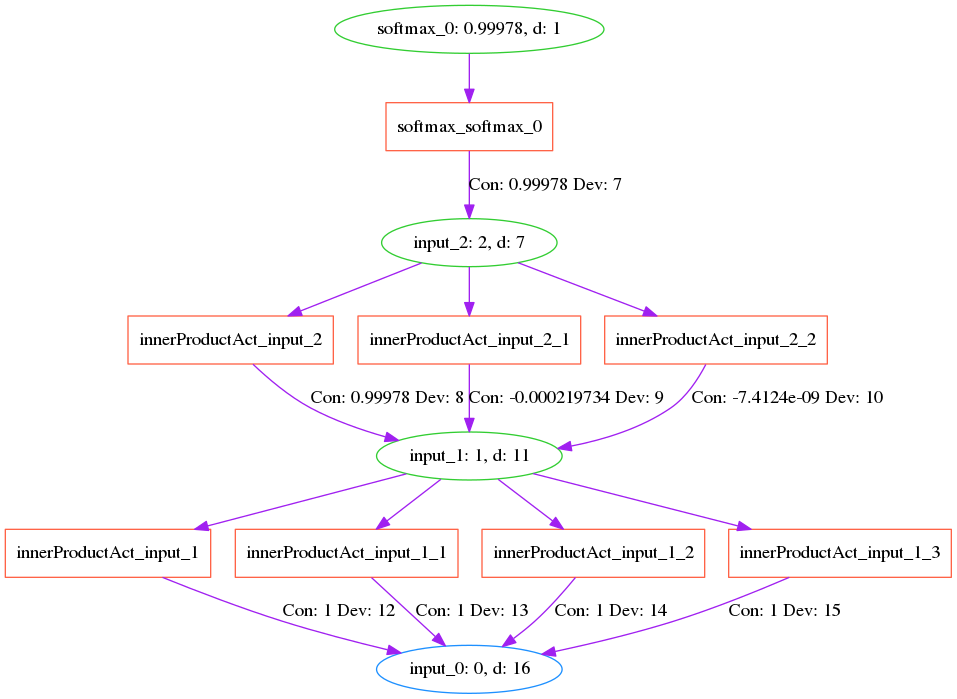
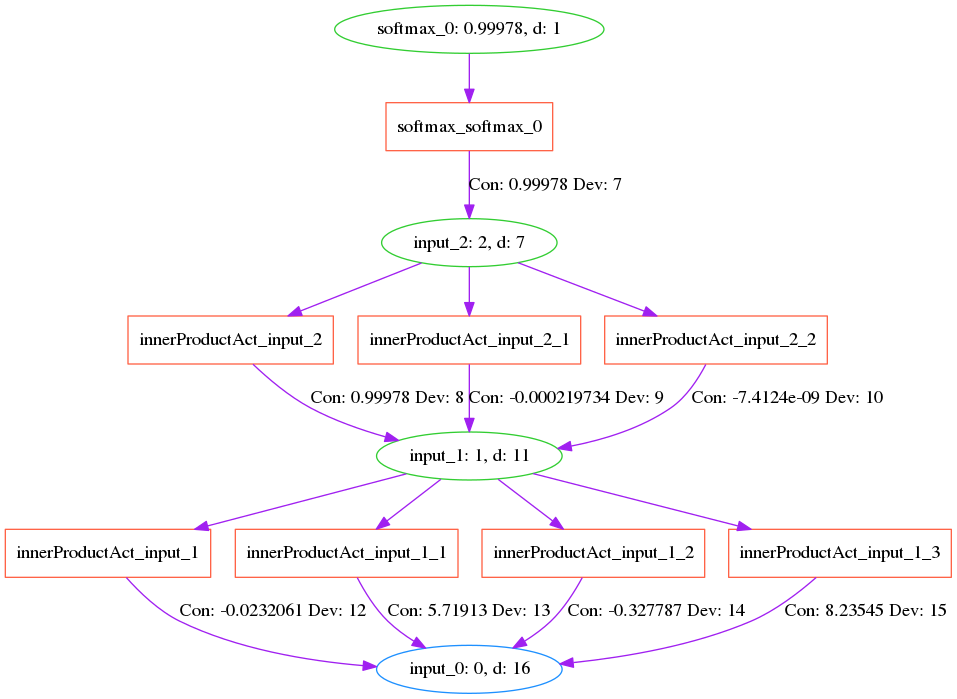
figures

Changed region(s): [[0.1818, 0.8412, 0.9697, 0.9614]]

diff --git a/drawMLP.py b/drawMLP.py
@@ -11,11 +11,12 @@ def drawMaintenanceQuery():
   gs = gridspec.GridSpec(1, 2, width_ratios=[4.4, 3.6])
   # ax1 = fig.add_subplot(1, 2, 1)
   ax1 = plt.subplot(gs[0])
-  xList = ["1", "2", "3", "4", "5", "6", "7", "8", "9", "10"]
-  origin = [0.063348, 0.142561, 0.209507, 0.273852, 0.348826, 0.419871, 0.484845, 0.553744, 0.621982, 0.690081 ]
-  maintenance_fine = [0.424083, 0.887966, 1.31785, 1.81795, 2.24077, 2.64885, 3.07401, 3.68914, 4.05341, 4.39845 ]
-  query_fine = [0.0011376, 0.0014631, 0.00197892, 0.00302829, 0.00391794, 0.00522415, 0.00588835, 0.00659315, 0.00801068, 0.00910626,]
-  query_fine = np.array(query_fine)*1000
+  # xList = ["1", "2", "3", "4", "5", "6", "7", "8", "9", "10"]
+  xList = ["1", "2", "3", "4", "5"]
+  origin = [0.000687, 0.0101, 0.018671, 0.028236, 0.038523]
+  maintenance_fine = [0.006961, 0.054,  0.101907, 0.152218, 0.197581]
+  query_fine = [0.006967, 0.04, 0.08362,  0.124492, 0.165602]
+  # query_fine = np.array(query_fine)*1000
   # maintenance_coarse = [0.206752, 0.476931, 0.766481, 0.98802, 1.23495, 1.54035, 1.76545, 1.99586, 2.22024, 2.41902]
   # query_coarse = [0.000264171, 0.000294356, 0.000330009, 0.000365438, 0.0003871, 0.000420653, 0.000438427, 0.000464096, 0.000474362, 0.000492065]
   # query_coarse = np.array(query_coarse)*1000
@@ -41,7 +42,7 @@ def drawMaintenanceQuery():
   ax1.set_xticklabels(xList, fontsize=fs2)
   ax1.tick_params(axis="y", which="both", labelsize=fs2)
   ax1.tick_params(axis="y", which="both", labelsize=fs2)
-  ax2.set_ylabel('Backward trace time (ms)', fontsize=fs1)
+  ax2.set_ylabel('Backward trace time (s)', fontsize=fs1)
   ax2.set_yscale("linear")
   ax2.set_xlabel('Number of layers\n(b)', fontsize=fs1)
   ax2.set_xticks(x)
@@ -57,12 +58,12 @@ def drawMaintenanceQuery():
   ax1.legend(fontsize=fs2)
   ax2.legend(fontsize=fs2)
   plt.tight_layout()
-  plt.savefig("./data/credit-score/images/mlp_pxai_maintain_query.pdf")
+  plt.savefig("./data/credit-score/images/mlp_pxai_maintain_query.png")
 
 
 def overallComparison2():
   # mlp = [95, 121*2, 131*3, 146*4, 154*5, 175*6, 187*7, 211*8, 229*9, 269*10]
-  mlp = [15, 18*2, 27*3, 33*4, 36*5, 44*6, 56*7, 68*8, 79*9, 90*10]
+  mlp = [ 0.000687*46*2, 0.01*46*2,  0.019637*46*2, 0.028236*92, 0.038523*92, 0.049059*92]
   mlp = np.array(mlp)
   
   fig = plt.figure(figsize=(13, 5.5))
@@ -71,7 +72,8 @@ def overallComparison2():
   ax = plt.subplot(gs[0])
   ax1 = plt.subplot(gs[1])
 
-  xList = ["1", "2", "3", "4", "5", "6", "7", "8", "9", "10"]
+  # xList = ["1", "2", "3", "4", "5", "6", "7", "8", "9", "10"]
+  xList = ["1", "2", "3", "4", "5"]
   w = 0.3
   lw = 2
   x = np.arange(len(xList))
@@ -81,10 +83,10 @@ def overallComparison2():
   # approx_times = [0.00547228, 0.00469242, 0.00479458, 0.00544853, 0.00569537, 0.00629687, 0.00644849, 0.00663826, 0.00715675, 0.00755559, ]
   # ax1.bar(x-w/2, approx_times, w, color="tab:purple", label="Subset search", edgecolor="black", linewidth=lw, hatch='x', alpha=0.7)
 
-  approx_time_prune = [0.185705, 0.51779, 0.806564, 2.33705, 5.34172, 6.78155, 7.9102, 10.6765, 18.6857, 20.195,]
+  approx_time_prune = [0.766496, 14.23, 23.9478, 39.2783, 45.4645, 57.0926]
   ax1.bar(x, approx_time_prune, 0.5, color="tab:green", label="Prune", edgecolor="black", linewidth=lw, hatch='-', alpha=0.7)
 
-  influ_times = [0.000374841, 0.00072196, 0.00117098, 0.00237264, 0.00352312, 0.00645057, 0.00869729, 0.0106812, 0.0140727, 0.0173866, ]
+  influ_times = [0.001396*46*2, 0.012*46*2, 0.022598*92, 0.03339*92, 0.044629*92, 0.055715*92]
   ax.bar(x-0.5*w, influ_times, w, label='ICE on PXAI PROV graph', color="tab:orange", hatch='.', edgecolor="black", linewidth=lw, alpha=0.7)
 
   # counter_times = [0.04, 0.1, 0.2, 0.45, 1, 1.9, 2.3, 3, 5.5, 9.061]
@@ -94,7 +96,7 @@ def overallComparison2():
   # ax.bar(x, influ_times_approx, w, label="ICE on approx subgraph (subset search)", color="tab:purple", hatch='x', edgecolor="black", linewidth=lw, alpha=0.7)
 
 
-  influ_time_approx_prune = [0.000206327, 0.000346406, 0.000472525, 0.00107084, 0.00167829, 0.00235278, 0.00330923, 0.00407384, 0.00548656, 0.00631705,]
+  influ_time_approx_prune = [0.001297*46*2, 0.003*46*2,  0.017573*92, 0.024968*92, 0.043729*92, ]
   ax.bar(x+0.5*w, influ_time_approx_prune, w, label="ICE on approx subgraph (prune)", color="tab:green", hatch='-', edgecolor="black", linewidth=lw, alpha=0.7)
 
   # counter_times_approx = [4, 8, 12, 15, 24, 50, 56, 85, 100, 123]
@@ -109,16 +111,16 @@ def overallComparison2():
   ax.set_xlabel('Number of layers\n (a)', fontsize=fs1)
   ax1.set_ylabel('Running time of approx search (s)', fontsize=fs1)
   ax1.set_xlabel('Number of layers\n (b)', fontsize=fs1)
-  ax.set_yscale("log")
-  ax1.set_yscale("log")
+  # ax.set_yscale("log")
+  # ax1.set_yscale("log")
   ax.set_xticks(x)
   ax.set_xticklabels(xList, fontsize=fs2)
-  ax.set_yticks([0.001, 0.01, 0.1, 1, 10, 100, 1000])
-  ax.set_yticklabels(["1e-3","1e-2","1e-1","1","10","1e2", "1e3"], fontsize=fs2)
+  # ax.set_yticks([0.001, 0.01, 0.1, 1, 10, 100, 1000])
+  # ax.set_yticklabels(["1e-3","1e-2","1e-1","1","10","1e2", "1e3"], fontsize=fs2)
   ax1.set_xticks(x)
   ax1.set_xticklabels(xList, fontsize=fs2)
-  ax1.set_yticks([0.01, 0.1, 1, 10])
-  ax1.set_yticklabels(["1e-2","1e-1", "1", "10"], fontsize=fs2)
+  # ax1.set_yticks([0.01, 0.1, 1, 10])
+  # ax1.set_yticklabels(["1e-2","1e-1", "1", "10"], fontsize=fs2)
   ax.tick_params(axis="y", which="both", labelsize=fs2)
   ax1.tick_params(axis="y", which="both", labelsize=fs2)
   # fig.legend(fontsize=26, ncol=1, loc='upper center', bbox_to_anchor=(0.7,0.76),fancybox=True)
@@ -127,7 +129,7 @@ def overallComparison2():
   ax.grid(axis='y')
   ax1.grid(axis='y')
   plt.tight_layout()
-  plt.savefig("./data/credit-score/images/mlp_pxai_approx_ice.pdf")
+  plt.savefig("./data/credit-score/images/mlp_pxai_approx_ice.png")
 
 if __name__=="__main__":
   drawMaintenanceQuery()

diff --git a/src/CProvGraph.cpp b/src/CProvGraph.cpp
@@ -290,17 +290,26 @@ void CProvGraph::DFSComputeContribution(vertex_t s, std::unordered_set<std::stri
           }
         }
         if (all_visited) {
-          auxilary_data.push_back(std::vector<double> (auxilary_data[int(g[v].value)].size(), 1.0));
+          auxilary_data.push_back(std::vector<double> (auxilary_data[int(g[v].value)].size(), 0.0));
           int pos = auxilary_data.size()-1;
           for (int i=0; i<auxilary_data[pos].size(); i++) {
             float previous_input = auxilary_data[g[v].value][i];
             adjacency_tier ai_vv, ai_vv_end;
             boost::tie(ai_vv, ai_vv_end) = boost::adjacent_vertices(s, g);
+            auxilary_data[g[v].value][i] = 0;
             for (; ai_vv!=ai_vv_end; ai_vv++) {
-              vertex_t v_operator = * ai_vv;
-              
+              float new_output = std::inner_product(begin(auxilary_data[g[v].value]), end(auxilary_data[g[v].value]), begin(g[* ai_vv].weights), 0.0);
+              if (g[* ai_vv].params["act"]=="sigmoid") 
+                float new_output = utils::sigmoid(new_output);
+              float previous_output = auxilary_data[g[s].value][std::stoi(g[* ai_vv].params["node_num"])];
+              auxilary_data[pos][i] += (previous_output - new_output) * auxilary_data[g[s].contribution][std::stoi(g[*ai_vv].params["node_num"])] / auxilary_data[g[s].value].size();
+              // std::cout << new_output << " " << previous_output << "\n";
+              // auxilary_data[pos][i] += (previous_output - new_output);
             }
+            // std::cout << auxilary_data[pos][i] << " ";
+            auxilary_data[g[v].value][i] = previous_input;
           }
+          // std::cout << std::endl;
           g[v].contribution = pos;
           DFSComputeContribution(v, visited);
         }
@@ -613,7 +622,7 @@ CProvGraph CProvGraph::ApproximateSubGraphQueryPruneMLP(std::string& name, float
   
   int count = 0;
   // int step = edge_list.size()/15;
-  int step = std::max(1, int(edge_queue.size()/20));
+  int step = std::max(1, int(edge_queue.size()/30));
   std::cout << "number of edges: " << edge_queue.size() << ", prune step: " << step << std::endl;
   CProvGraph ret = *this;
   // for (edge_t e : edge_list) {

diff --git a/src/test/credit-score-mlp-test.cpp b/src/test/credit-score-mlp-test.cpp
@@ -134,12 +134,14 @@ int main(int argc, char *argv[]) {
   }
   
   //Destruction/Construction of a MLP object to show off saving and loading a trained model
-  MLP my_mlp(credit_score_mlp_weights);
+  
 
   int correct = 0;
-  samples = 1;
+  samples = 3;
   for (int j = 0; j < samples; ++j) {
     std::vector<double> guess;
+
+    MLP my_mlp(credit_score_mlp_weights);
 
     clock_t t1, t2;
     t1 = clock();
@@ -154,8 +156,11 @@ int main(int argc, char *argv[]) {
     // my_mlp.provG.saveGraph();
     std::cout << "With provenance: " << (t2-t1)*1.0/CLOCKS_PER_SEC << std::endl;
 
+    t1 = clock();
     std::string to_query = "softmax_0"; 
     cpg::CProvGraph query_output = my_mlp.provG.ProvenanceQuery(to_query);
+    t2 = clock();
+    std::cout << "Provenance query: " << (t2-t1)*1.0/CLOCKS_PER_SEC << std::endl;
     
     t1 = clock();
     std::cout << query_output.computeVariable(to_query) << std::endl;
@@ -163,7 +168,7 @@ int main(int argc, char *argv[]) {
     std::cout << "Provenance recompute time: " << (t2-t1)*1.0/CLOCKS_PER_SEC << std::endl;
 
     // query_output.computeDerivative(to_query);
-    query_output.saveGraph();
+    // query_output.saveGraph();
 
     // std::unordered_map<std::string, float> changedEDBs;
     // changedEDBs["input_0_2"] = changedEDBs["input_0_2"];
@@ -173,7 +178,7 @@ int main(int argc, char *argv[]) {
     // std::cout << "Recompute with changed EDBs time: " << (t2-t1)*1.0/CLOCKS_PER_SEC << std::endl;
 
     t1 = clock();
-    cpg::CProvGraph approx_output = query_output.ApproximateSubGraphQueryPruneMLP(to_query, 0.02, 0.01);
+    cpg::CProvGraph approx_output = query_output.ApproximateSubGraphQueryPruneMLP(to_query, 0.3, 0.01);
     t2 = clock();
     std::cout << "Approx prune time: " << (t2-t1)*1.0/CLOCKS_PER_SEC << std::endl;
 
@@ -187,7 +192,7 @@ int main(int argc, char *argv[]) {
     // t2 = clock();
     // std::cout << "Recompute with changed EDBs time: " << (t2-t1)*1.0/CLOCKS_PER_SEC << std::endl;
 
-    approx_output.saveGraph();
+    // approx_output.saveGraph();
 
   }
 

diff --git a/src/CProvGraph.h b/src/CProvGraph.h
@@ -114,8 +114,9 @@ struct my_node_writer {
   my_node_writer(Graph& g_) : g (g_) {};
   template <class Vertex>
   void operator()(std::ostream& out, Vertex v) {
-    if (g[v].vt==Input) 
+    if (g[v].vt==Input) {
       out << " [label=\"" << g[v].name << ": " << g[v].value << ", d: " << g[v].derivative << "\", shape=oval, color=dodgerblue]";
+    }
     else if (g[v].vt==Derived) 
       out << " [label=\"" << g[v].name << ": " << g[v].value << ", d: " << g[v].derivative << "\", shape=oval, color=limegreen]";
     else if (g[v].vt==Parameter) 
